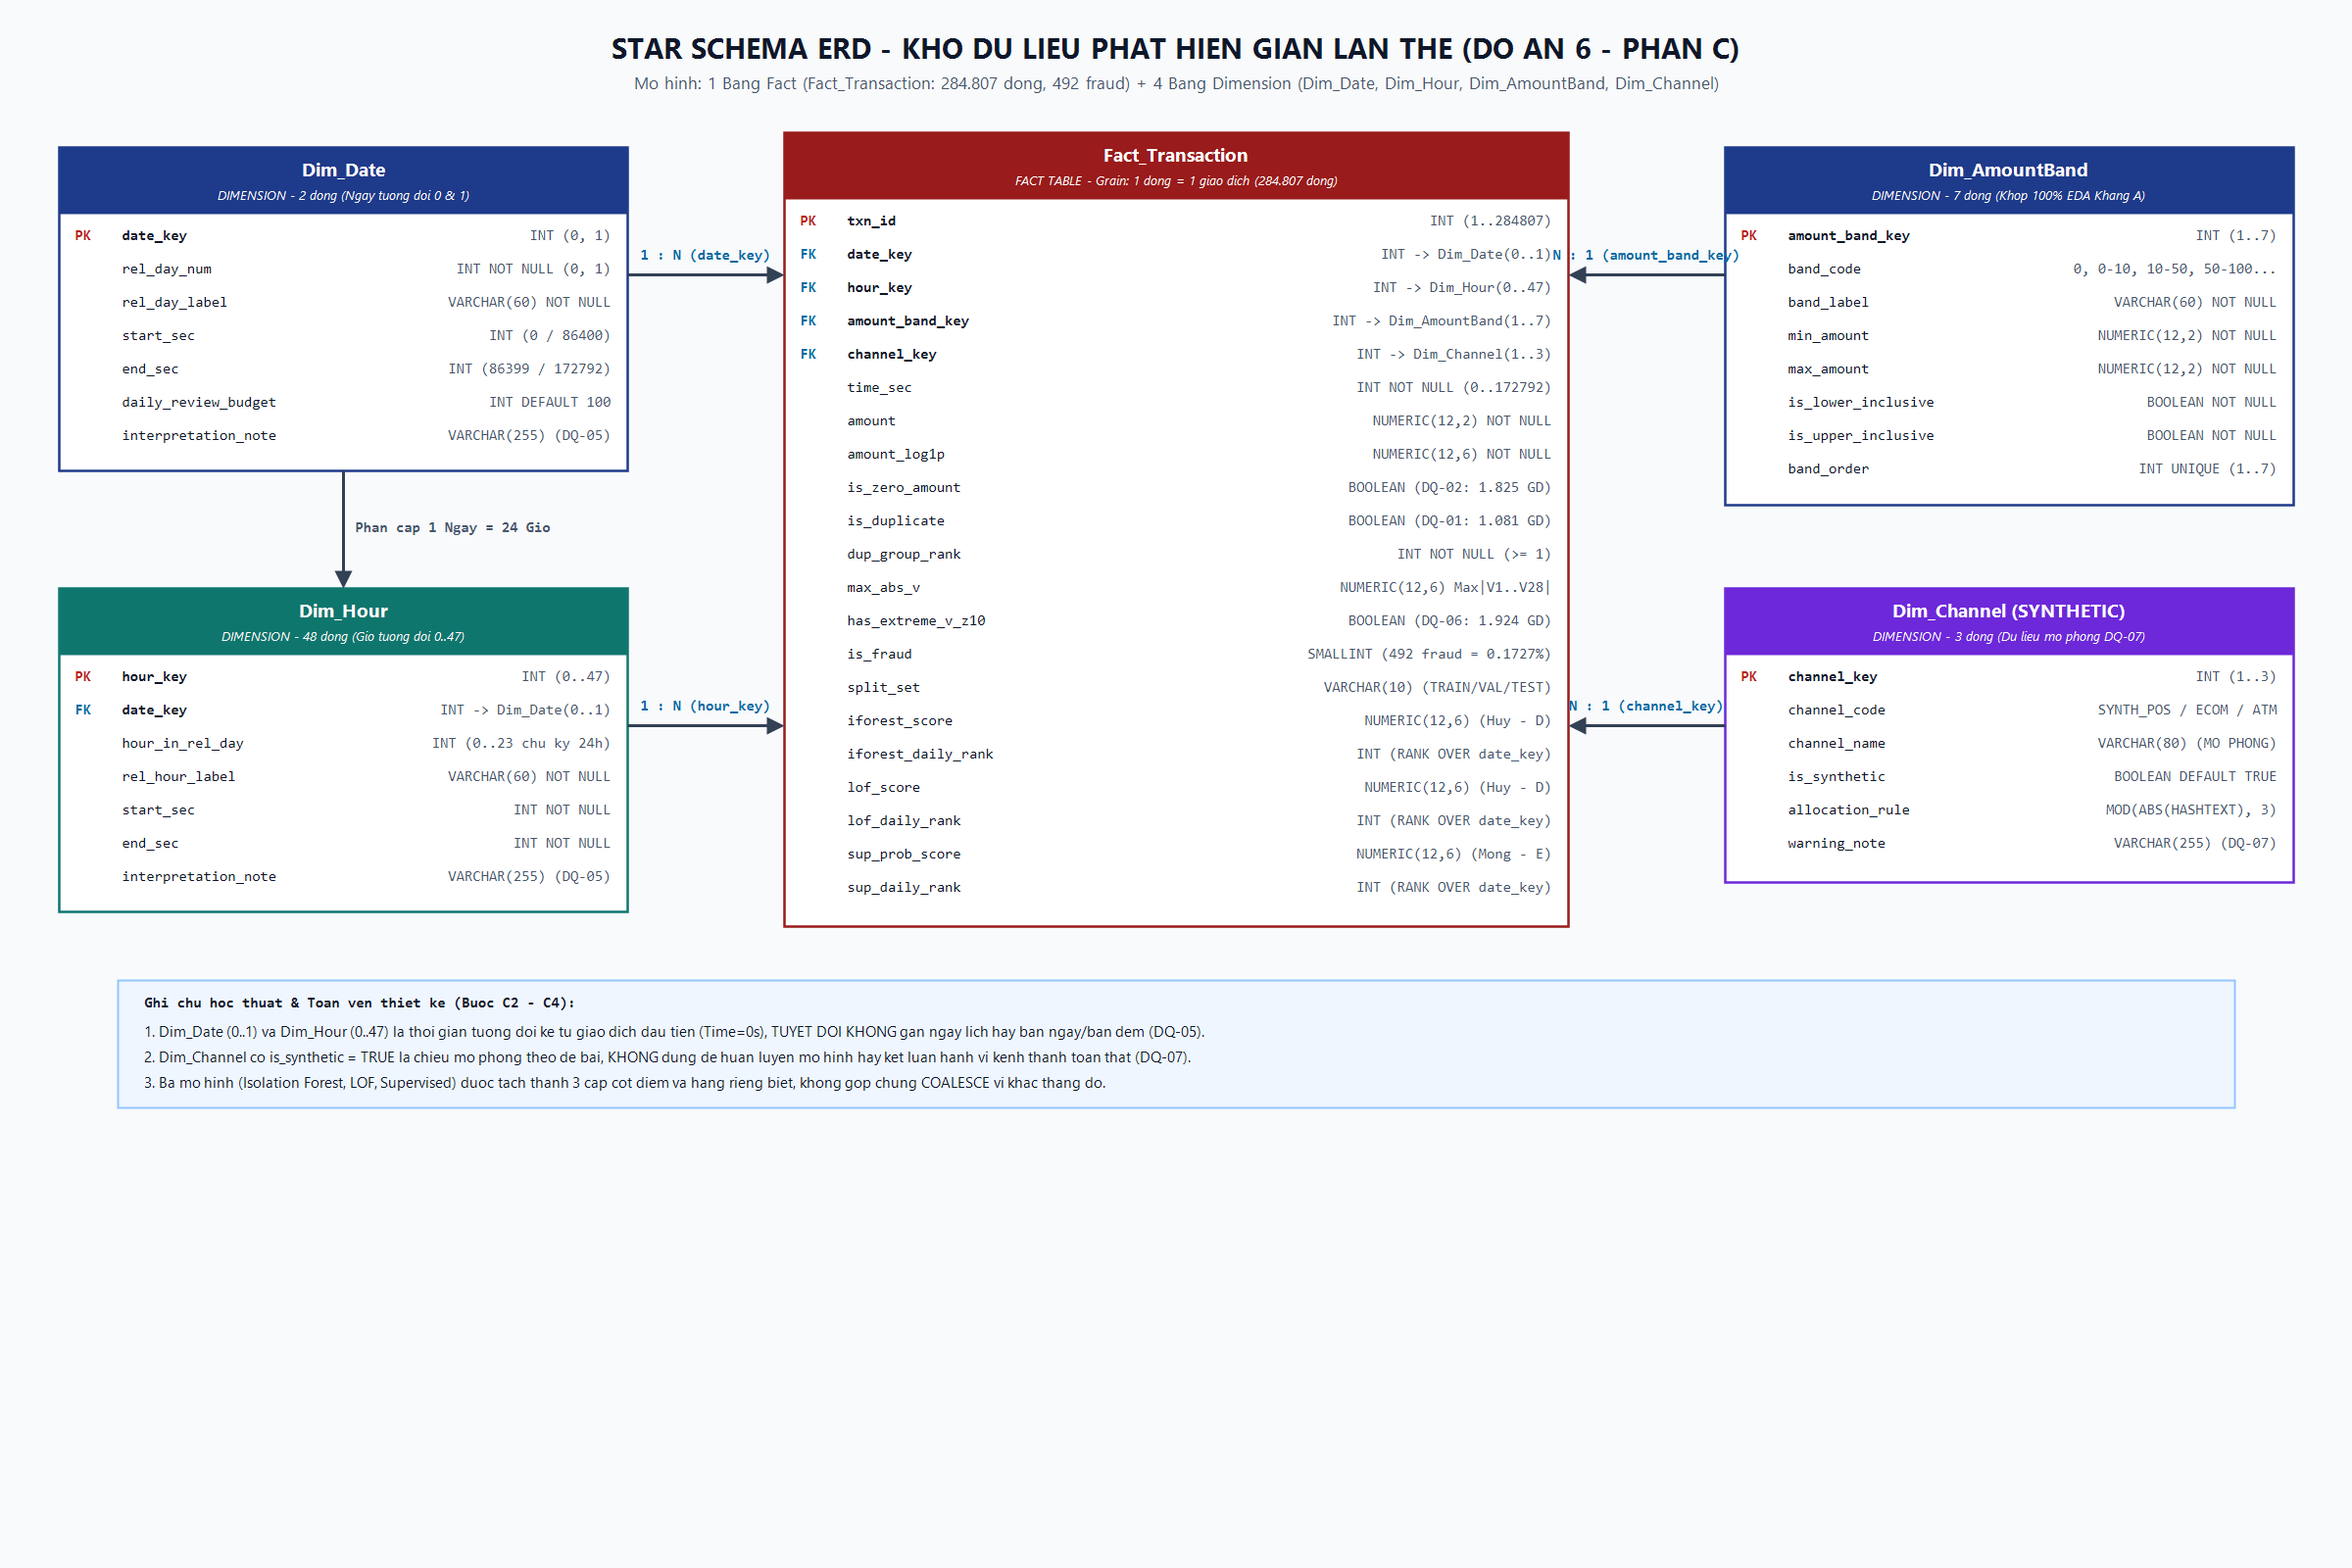
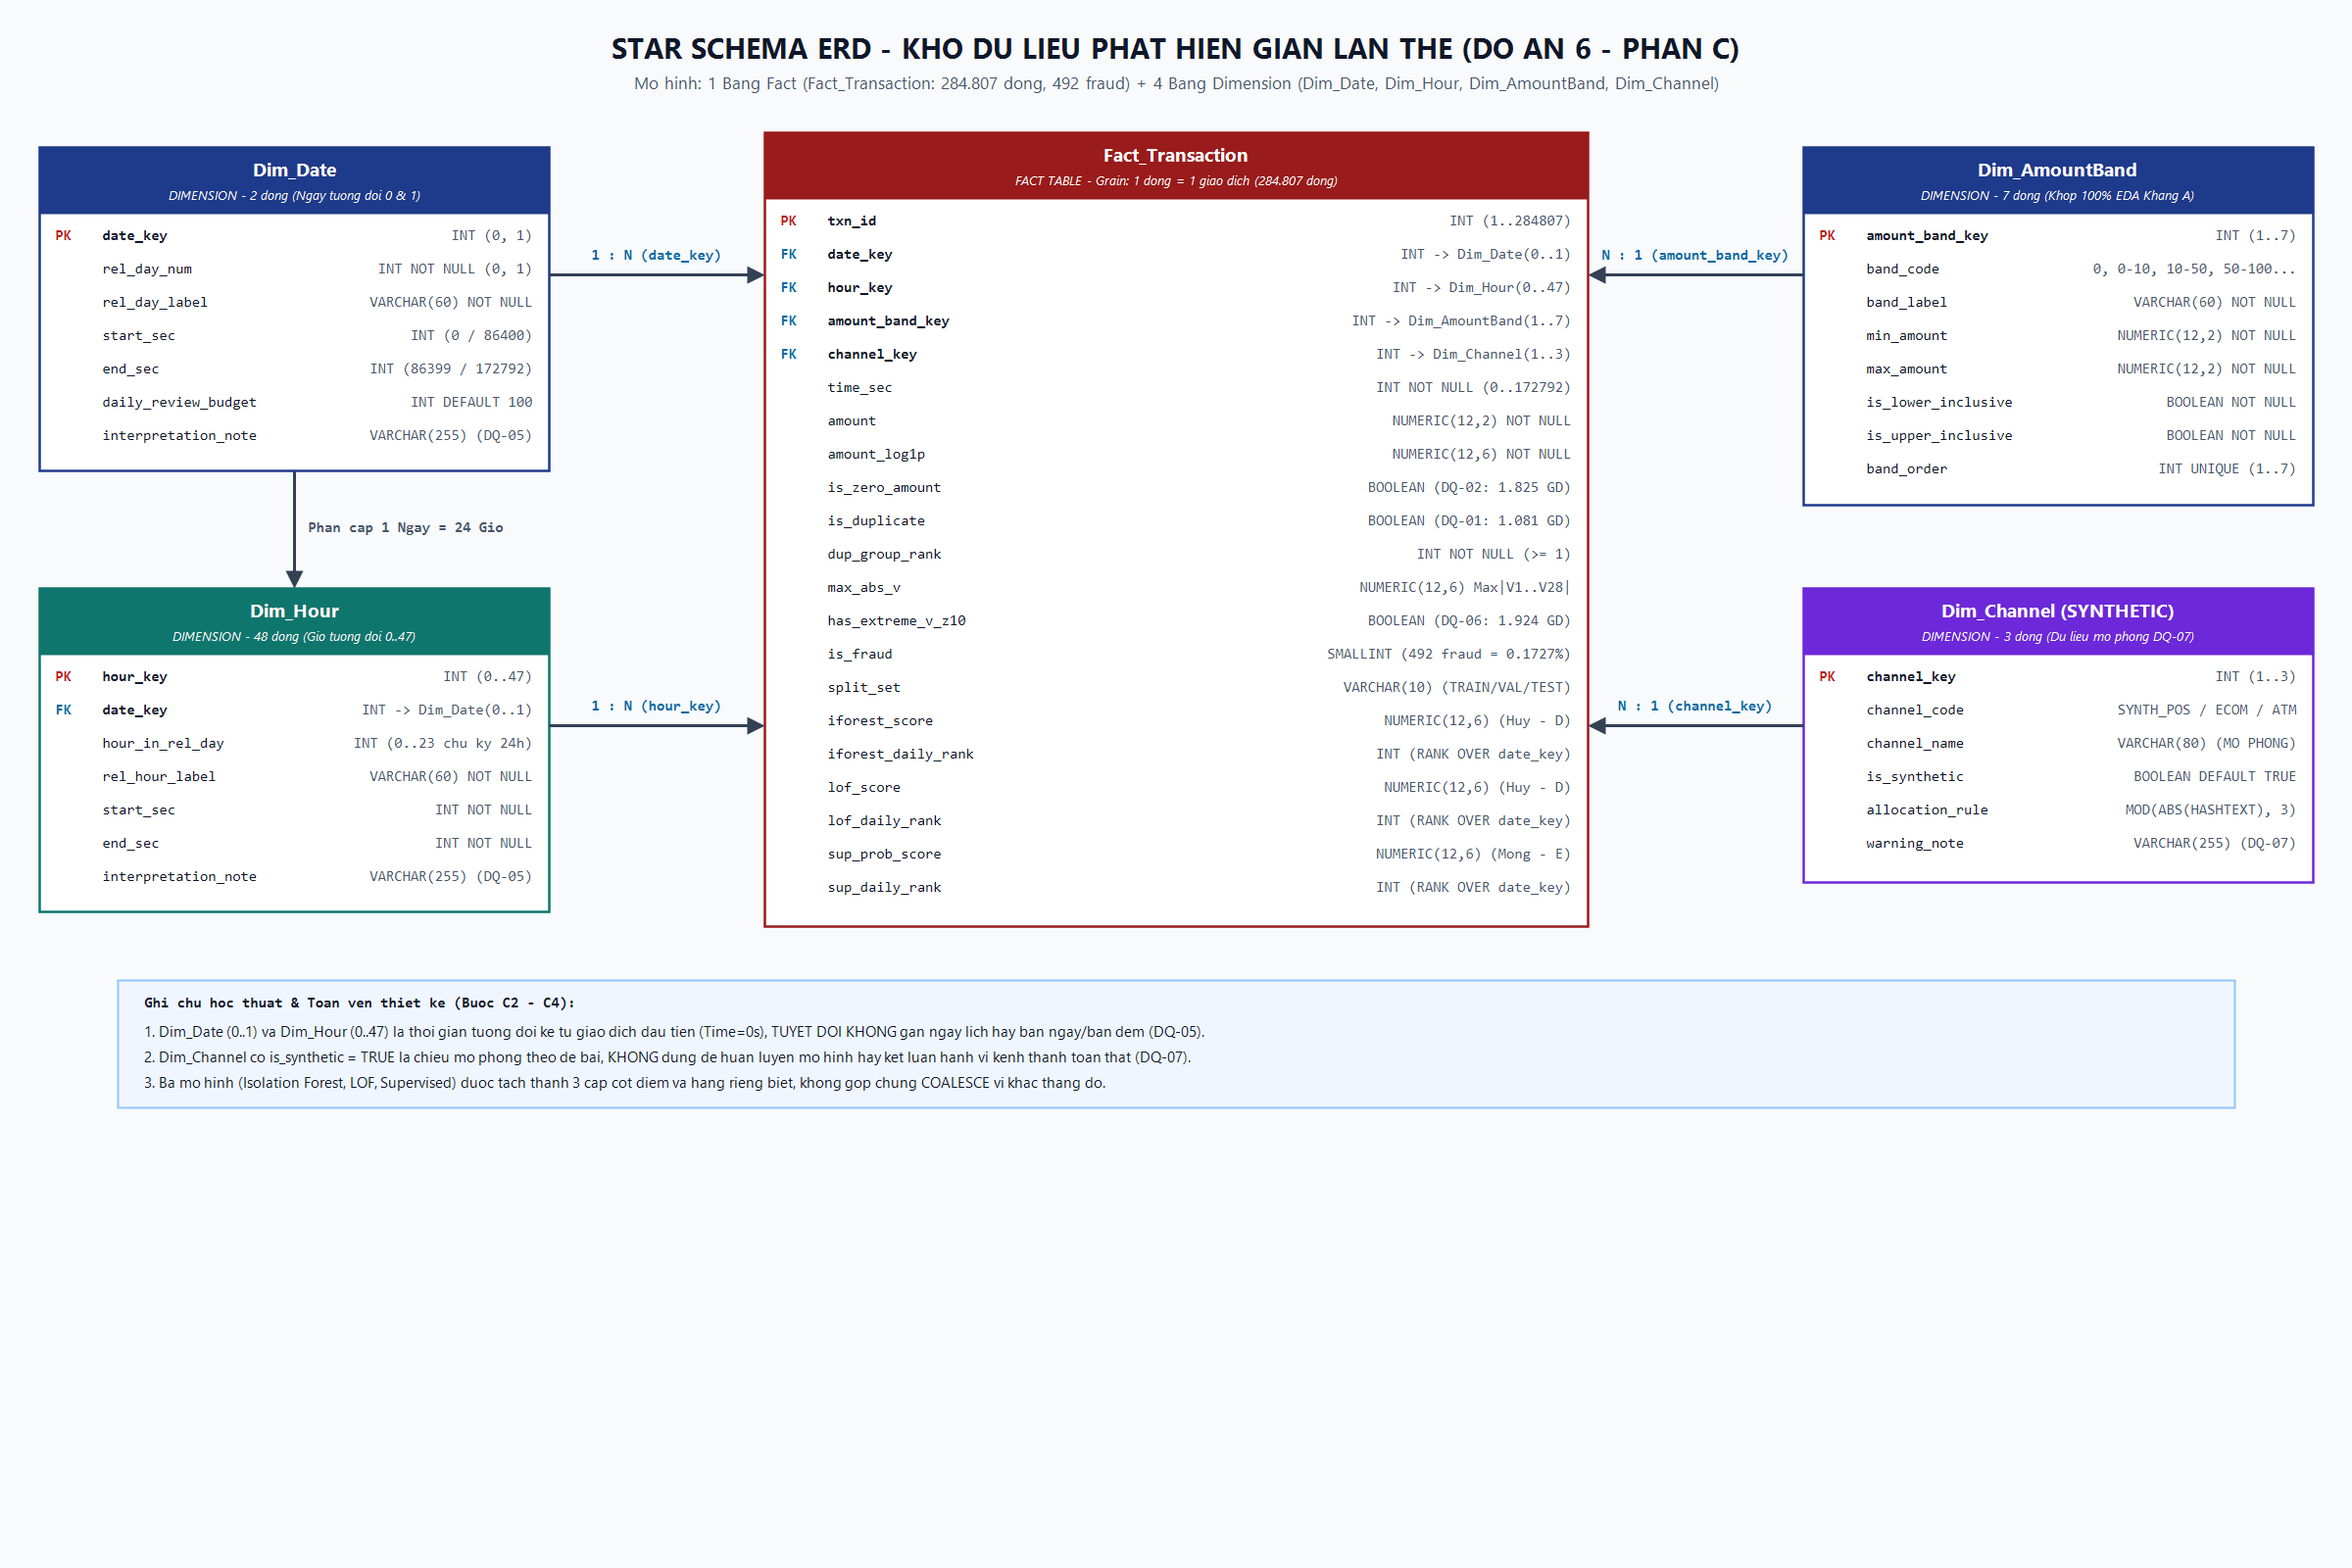
fix(warehouse): resolve all code review issues (C12 loader, views 4-6, docs, ERD PNG, execution log)

diff --git a/sql/run_pipeline.py b/sql/run_pipeline.py
@@ -108,7 +108,7 @@ $factRows = @(
     @("", "sup_prob_score", "NUMERIC(12,6) (Mong - E)"),
     @("", "sup_daily_rank", "INT (RANK OVER date_key)")
 )
-Draw-TableBox 800 135 800 810 "Fact_Transaction" "FACT TABLE - Grain: 1 dong = 1 giao dich (284.807 dong)" 153 27 27 $factRows
+Draw-TableBox 780 135 840 810 "Fact_Transaction" "FACT TABLE - Grain: 1 dong = 1 giao dich (284.807 dong)" 153 27 27 $factRows
 
 $dimDateRows = @(
     @("PK", "date_key", "INT (0, 1)"),
@@ -119,7 +119,7 @@ $dimDateRows = @(
     @("", "daily_review_budget", "INT DEFAULT 100"),
     @("", "interpretation_note", "VARCHAR(255) (DQ-05)")
 )
-Draw-TableBox 60 150 580 330 "Dim_Date" "DIMENSION - 2 dong (Ngay tuong doi 0 & 1)" 30 58 138 $dimDateRows
+Draw-TableBox 40 150 520 330 "Dim_Date" "DIMENSION - 2 dong (Ngay tuong doi 0 & 1)" 30 58 138 $dimDateRows
 
 $dimHourRows = @(
     @("PK", "hour_key", "INT (0..47)"),
@@ -130,7 +130,7 @@ $dimHourRows = @(
     @("", "end_sec", "INT NOT NULL"),
     @("", "interpretation_note", "VARCHAR(255) (DQ-05)")
 )
-Draw-TableBox 60 600 580 330 "Dim_Hour" "DIMENSION - 48 dong (Gio tuong doi 0..47)" 15 118 110 $dimHourRows
+Draw-TableBox 40 600 520 330 "Dim_Hour" "DIMENSION - 48 dong (Gio tuong doi 0..47)" 15 118 110 $dimHourRows
 
 $dimBandRows = @(
     @("PK", "amount_band_key", "INT (1..7)"),
@@ -142,7 +142,7 @@ $dimBandRows = @(
     @("", "is_upper_inclusive", "BOOLEAN NOT NULL"),
     @("", "band_order", "INT UNIQUE (1..7)")
 )
-Draw-TableBox 1760 150 580 365 "Dim_AmountBand" "DIMENSION - 7 dong (Khop 100% EDA Khang A)" 30 58 138 $dimBandRows
+Draw-TableBox 1840 150 520 365 "Dim_AmountBand" "DIMENSION - 7 dong (Khop 100% EDA Khang A)" 30 58 138 $dimBandRows
 
 $dimChanRows = @(
     @("PK", "channel_key", "INT (1..3)"),
@@ -152,25 +152,25 @@ $dimChanRows = @(
     @("", "allocation_rule", "MOD(ABS(HASHTEXT), 3)"),
     @("", "warning_note", "VARCHAR(255) (DQ-07)")
 )
-Draw-TableBox 1760 600 580 300 "Dim_Channel (SYNTHETIC)" "DIMENSION - 3 dong (Du lieu mo phong DQ-07)" 109 40 217 $dimChanRows
+Draw-TableBox 1840 600 520 300 "Dim_Channel (SYNTHETIC)" "DIMENSION - 3 dong (Du lieu mo phong DQ-07)" 109 40 217 $dimChanRows
 
 $penLine = New-Object System.Drawing.Pen([System.Drawing.Color]::FromArgb(51, 65, 85), 3)
 $penLine.CustomEndCap = New-Object System.Drawing.Drawing2D.AdjustableArrowCap(6, 6)
 
-$g.DrawLine($penLine, 640, 280, 800, 280)
-$g.DrawString("1 : N (date_key)", $fontColBold, $brushFK, 720, 252, $sfCenter)
+$g.DrawLine($penLine, 560, 280, 780, 280)
+$g.DrawString("1 : N (date_key)", $fontColBold, $brushFK, 670, 252, $sfCenter)
 
-$g.DrawLine($penLine, 640, 740, 800, 740)
-$g.DrawString("1 : N (hour_key)", $fontColBold, $brushFK, 720, 712, $sfCenter)
+$g.DrawLine($penLine, 560, 740, 780, 740)
+$g.DrawString("1 : N (hour_key)", $fontColBold, $brushFK, 670, 712, $sfCenter)
 
-$g.DrawLine($penLine, 1760, 280, 1600, 280)
-$g.DrawString("N : 1 (amount_band_key)", $fontColBold, $brushFK, 1680, 252, $sfCenter)
+$g.DrawLine($penLine, 1840, 280, 1620, 280)
+$g.DrawString("N : 1 (amount_band_key)", $fontColBold, $brushFK, 1730, 252, $sfCenter)
 
-$g.DrawLine($penLine, 1760, 740, 1600, 740)
-$g.DrawString("N : 1 (channel_key)", $fontColBold, $brushFK, 1680, 712, $sfCenter)
+$g.DrawLine($penLine, 1840, 740, 1620, 740)
+$g.DrawString("N : 1 (channel_key)", $fontColBold, $brushFK, 1730, 712, $sfCenter)
 
-$g.DrawLine($penLine, 350, 480, 350, 600)
-$g.DrawString("Phan cap 1 Ngay = 24 Gio", $fontColBold, $brushMuted, 360, 530)
+$g.DrawLine($penLine, 300, 480, 300, 600)
+$g.DrawString("Phan cap 1 Ngay = 24 Gio", $fontColBold, $brushMuted, 312, 530)
 
 $rectNote = New-Object System.Drawing.Rectangle(120, 1000, 2160, 130)
 $brushNoteBg = New-Object System.Drawing.SolidBrush([System.Drawing.Color]::FromArgb(239, 246, 255))
